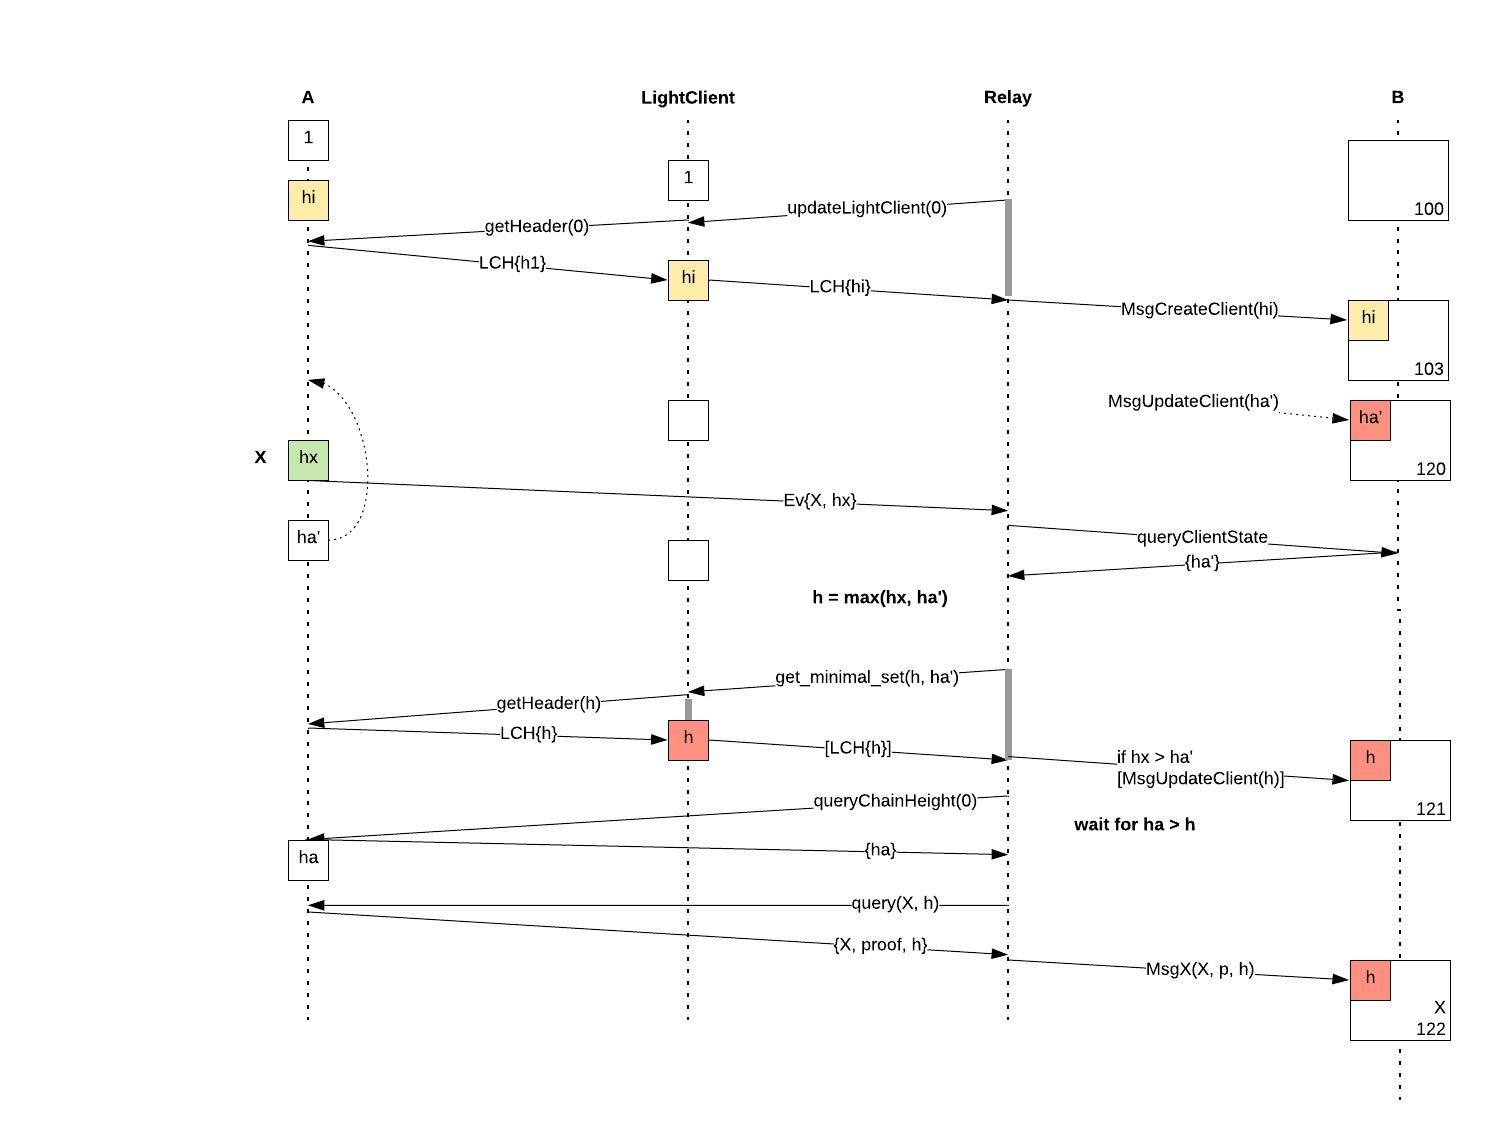
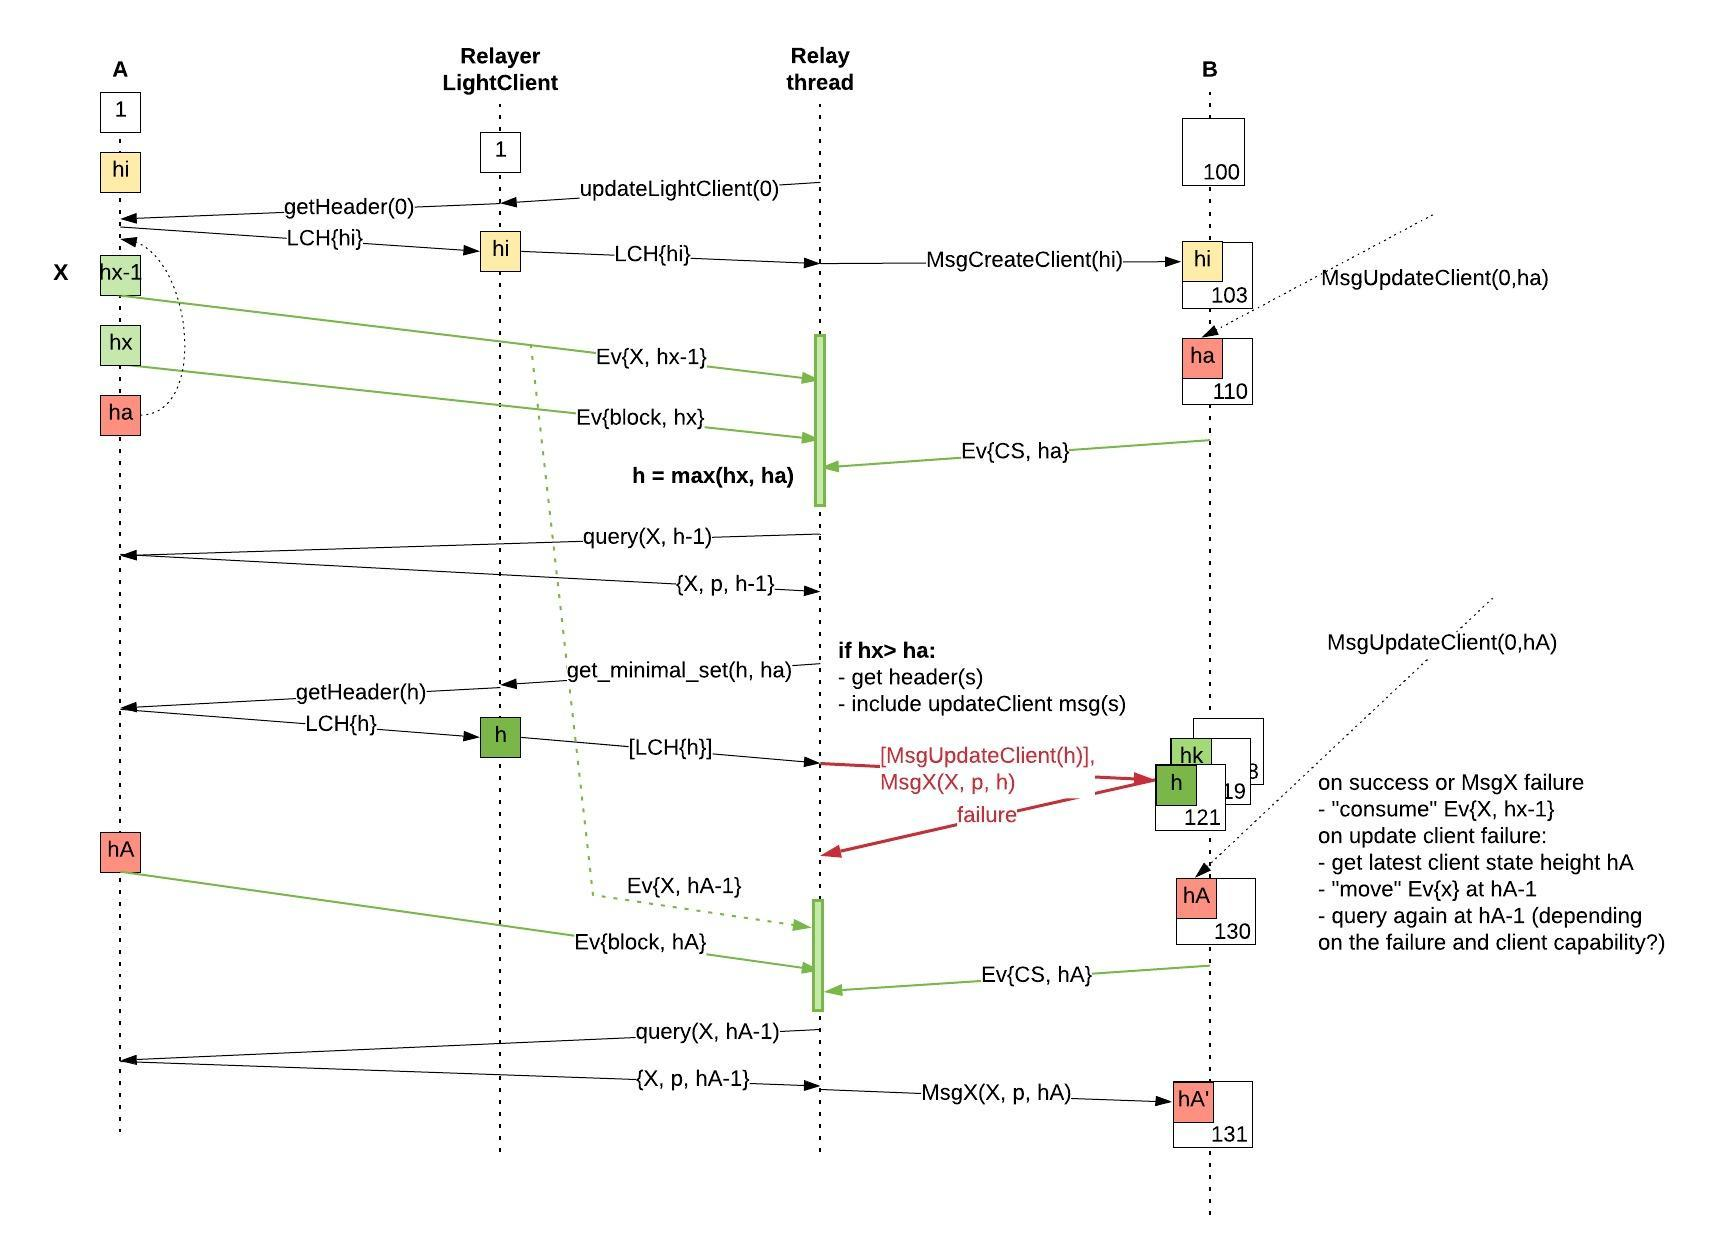
corrections on event handling diagram, added also consensus state events

diff --git a/docs/architecture/adr-002-ibc-relayer.md b/docs/architecture/adr-002-ibc-relayer.md
@@ -351,27 +351,31 @@ Since the relayer must pay for all transactions, including `MsgClientCreate` and
 For example, light client implementation of Tendermint supports bisection and the relayer may choose to send skipping headers to A-client on B, periodically or when required by new IBC datagrams.
 
 #### IBC Client Consensus State vs Relayer Light Client States vs Chain states
-A number of IBC datagrams contain proofs obtained from chain A at a some height `proof_height` and they need to be verified against an IBC client consensus state at `proof_height` on chain B. The relayer therefore needs to ensure that the consensus state at `proof_height` exists on chain B.
+A number of IBC datagrams contain proofs obtained from chain A at a some height `h`. A proof needs to be verified on B against the commitment root for `h` which, for Tendermint clients, is included in the client consensus state at `h+1`. This is because for Tendermint chains the application Hash after applying all transactions in block `n` is included in block at height `n+1`. 
+
+The relayer therefore needs to ensure that the consensus state at `proof_height+1` exists on chain B.
 
 One proposal is shown below and described in the rest of this section.
 ![IBC_client_heights](assets/IBC_client_heights.jpeg)
 
 The relayer creates a light client on B with `hi` and then updates it as required by processing different IBC events. Let `ha'` be the last consensus state for client on B.
-When some IBC event for X (connection, channel or packet) is received, it includes the height `hx` at which the event occured on A.
+When some IBC event for X (connection, channel or packet) is received, it includes the height, let it be `hx-1` at which the event occured on A.
 According to the proposal here, the relayer should:
-- get the latest consensus state height of client on B, `ha'`
-- let `h = max(hx, ha')`
-- the relayer asks its light client for the minimal set of headers such that `h` verifies against `ha'` 
-- it then sends one or more `MsgUpdateClient` datagrams in a transaction to B
-- next the relayer periodically queries the latest height on A, `ha` waiting for `ha > h`. The issue here is that a query with proof for a height `h` will return a proof from `h-1` if `h` is the latest state on A. See [SDK store IAVL Query function](https://github.com/cosmos/cosmos-sdk/blob/01b59db35ebc555beaaad9512aaf791ff50245b1/store/iavl/store.go#L250-L267)
-- the relayer can now safely query for item X at height `h` and get a proof at this height
-- the relayer creates the message for X, including the proof and height `h` which is guaranteed to find a client consensus state on B.
+- get the latest consensus state height of client on B, `ha`
+- let `h = max(hx, ha)`
+- query for item X at height `h-1` and get a proof `p` at this height
+- wait for the block at height `hx` to be received, i.e. `Ev{bloack, hx}`
+- get the minimal set of headers from the light client such that `h` verifies against `ha` 
+- sends zero or more `MsgUpdateClient` datagrams and the `MsgX{X, p, h}` in a transaction to B
+- if the transaction is successful or `MsgX..` failed, then "consume" the `Ev{X,..}` 
+  - if `MsgX` fails there is nothing that can be done, another relayer must have submitted first
+- else raise again the event at `hA-1` if one not already there
+- the effect of this is that a new query is made at `hA-1` and since the CS at `hA` exists on B, only `MsgX` needs to be sent out 
 
 #### Connection Messages
 The relayer queries the source and destination chains of the relaying paths in order to determine if connection handshake datagrams should be sent to destination chains.
 
 ##### Connection Query
-
 The following structures pertain to connection queries and should be detailed in [IBC-Modules-Rust-ADR]. 
 The structures are shown here for reference.
 
@@ -692,6 +696,18 @@ If the proposed change will be large, please also indicate a way to do the chang
 The IBC Events, input to the relay thread are described here.
 
 ```
+{"create_client": {
+   "client_id": <clientID>,
+   "client_type": <clientType>,
+  }
+}
+
+{"update_client": {
+   "client_id": <clientID>,
+   "client_type": <clientType>,
+  }
+}
+
 {"connection_open_init": {
     "connection_id": <connectionID>, 
     "client_id": <clientID>, 
@@ -784,20 +800,6 @@ The IBC Events, input to the relay thread are described here.
 }
 ```
 
-Other available events include
-```
-   {"create_client": {
-       "client_id": <clientID>,
-       "client_type": <clientType>,
-    },
-   }
-   
-   {"update_client": {
-       "client_id": <clientID>,
-       "client_type": <clientType>,
-    }
-   }
-```
 ## References
 
 > Are there any relevant PR comments, issues that led up to this, or articles referrenced for why we made the given design choice? If so link them here!
